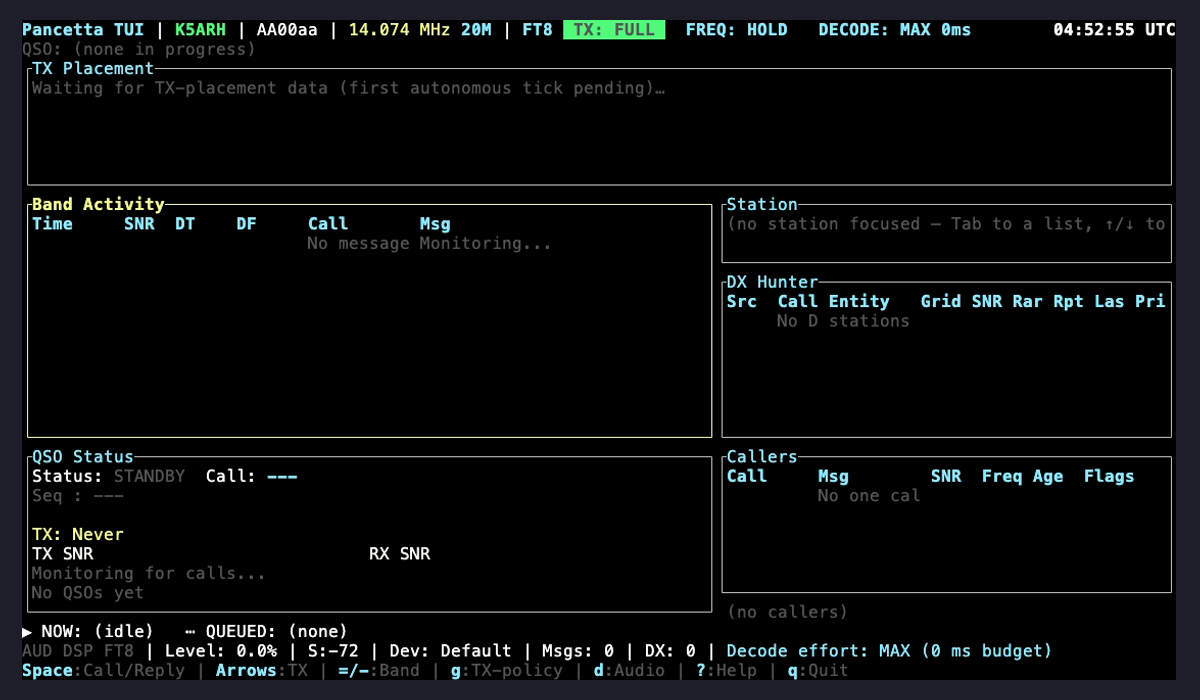
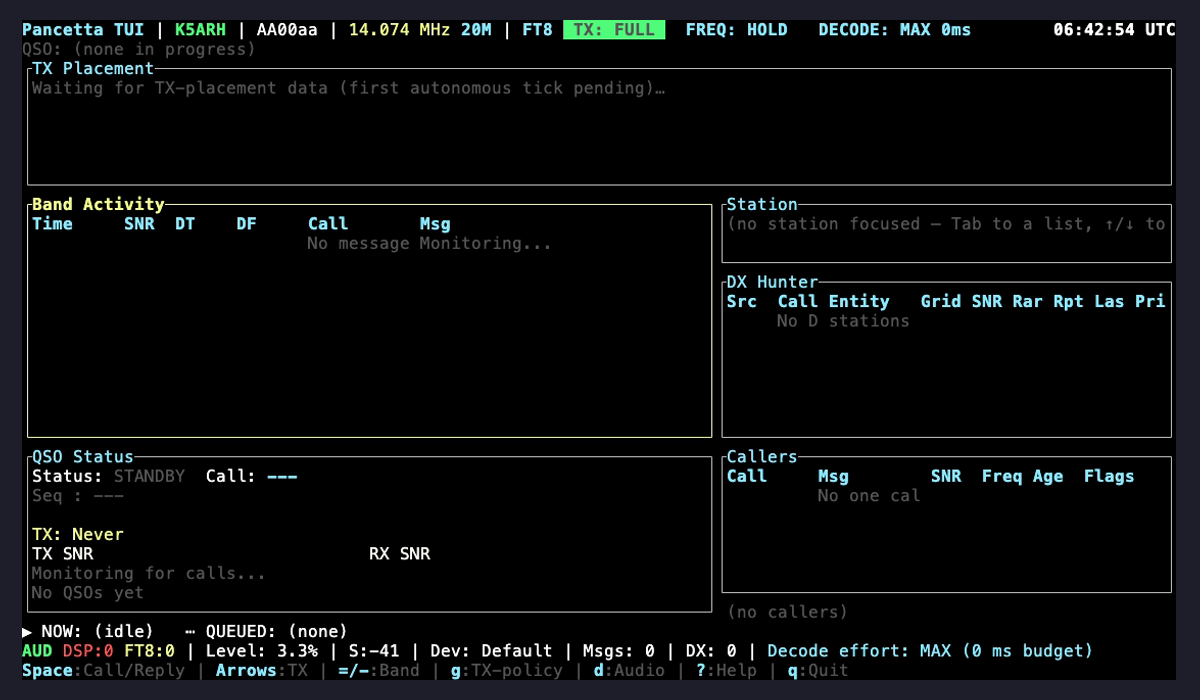
fix(demo): reset persisted view in tapes, capture past pre-roll, re-record
Three defects in the tape scripts, all of which corrupted the committed
assets:

1. The TUI persists `active_view` in ~/.pancetta/tui_state.json -- outside the
   scratch `--config` -- so whatever view a previous recording or operator
   session left active decided where each tape started. The committed
   screenshot-operate.png was in fact a *Monitor*-view capture (title bar read
   "MON"), and feature-decode-effort.tape's startup anchor failed outright
   after screenshots.tape ran. Each tape now resets that file to Operate/MAX
   before launching.

2. `Wait+Screen /Band Activity/` fires almost immediately, but the replay
   feeder waits for the next true UTC slot boundary before sending a single
   sample, so captures taken 2 s later showed a blank waterfall, Level 0.0%
   and a dim AUD badge -- an idle process, not a running station. Both tapes
   now sleep past the worst-case 15 s pre-roll first.

3. demo.tape's sleeps assumed the old 5 s grace period; retimed for 20 s.

Re-recorded all six assets. They now show live audio through the pipeline
(populated waterfall, real Level/S-meter, green AUD badge instead of the false
"AUDIO DEAD" alarm) and the full Operate dashboard rather than a mislabeled
Monitor view.

Rewrote every "HONEST DISCLOSURE" block around what is now measured rather
than theorised. The shipped explanation -- an effort=max decode-time ceiling
plus "a likely deeper architectural discrepancy between live streaming and the
[…]

Changed region(s): [[0.0308, 0.9, 0.8942, 0.96]]

diff --git a/.tapes/README.md b/.tapes/README.md
@@ -1,15 +1,40 @@
 # Demo recordings
 
-`.tape` scripts for [VHS](https://github.com/charmbracelet/vhs). To
-re-render after a TUI change:
+`.tape` scripts for [VHS](https://github.com/charmbracelet/vhs). Run all of
+them from the repo root:
 
 ```bash
 brew install vhs   # once
+cargo build --release -p pancetta   # warm the binary; the tapes assume it
 vhs .tapes/demo.tape
+vhs .tapes/screenshots.tape
+vhs .tapes/feature-decode-effort.tape
 ```
 
-Output lands in `assets/`. CI regenerates these automatically on TUI
-changes (see `.github/workflows/demo-assets.yml`) -- these are not required
-to be re-run by hand for every PR. (`demo-assets.yml` is not yet landed as
-of this writing -- it's a later task on the README-visual-identity plan;
-until then, re-render by hand per the steps above.)
+Output lands in `assets/`.
+
+| Tape | Produces | What it captures |
+|------|----------|------------------|
+| `demo.tape` | `assets/demo.gif` | The README hero GIF: a full `--replay` session from startup through self-terminating exit (~110s worst case). |
+| `screenshots.tape` | `assets/screenshot-operate.png`, `-priority.png`, `-qso.png`, `-waterfall.png` | Four static panel captures — the Operate view, the DX Hunter panel (priority-score column), QSO Status, and the Monitor waterfall. |
+| `feature-decode-effort.tape` | `assets/feature-decode-effort.gif` | A short, decode-independent feature clip: cycling the decode-effort preset ring with `e` and the title-bar `DECODE: <PRESET> <n>ms` chip updating live. |
+
+All three drive `pancetta --replay assets/demo-wav`, so every asset comes
+from a real run with real off-air audio flowing through the pipeline. That
+corpus does **not** produce an FT8 decode under `--replay`; see the trailing
+"HONEST DISCLOSURE" comment block in `demo.tape` for what has been measured
+and ruled out. Don't write README copy that implies these assets show a
+captured decode.
+
+## CI
+
+`.github/workflows/demo-assets.yml` re-renders **`demo.tape` only** and
+auto-commits `assets/demo.gif` when the render changes. It triggers on PRs
+touching `.tapes/**`, `assets/demo-wav/**`, `pancetta-tui/**`,
+`pancetta/src/**`, `pancetta-config/src/**`, or `pancetta-ft8/src/**`, and is
+skipped on fork PRs (the auto-commit push can't work there). `demo.gif`
+therefore doesn't need re-rendering by hand for every PR.
+
+`screenshots.tape` and `feature-decode-effort.tape` are **not** automated —
+re-render those by hand with the commands above after any TUI change that
+alters what they show.
